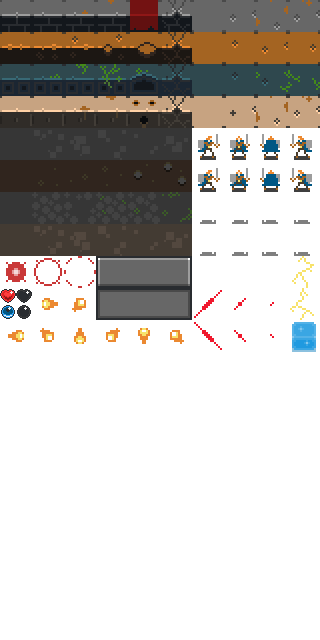
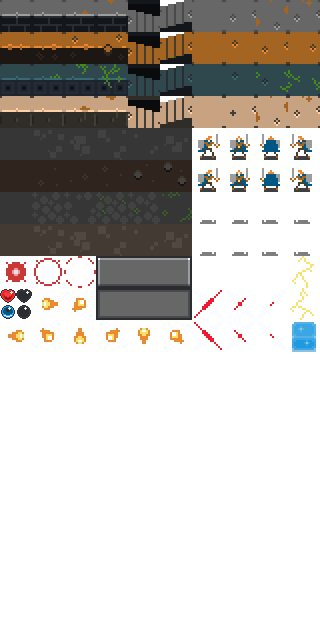
Stairs down

Changed region(s): [[0.375, 0.0, 0.5938, 0.2188]]

diff --git a/game.js b/game.js
@@ -2,10 +2,7 @@ Game = {};
 
 Game.init = function(){
     $('.gameover').hide();
-    Game.map = new Map(64, 64);
-    Game.player = Game.map.random(function(x,y){ return Game.map.empty(x,y); });
-    Game.lastPlayerDirection = 'S';
-    Game.map.updateVisibility(Game.player[0], Game.player[1]);
+    Game.initMap();
     Game.display = new Display(Game.map);
     Game.scheduler = new ROT.Scheduler.Simple();
     Game.engine = new ROT.Engine(Game.scheduler);
@@ -59,7 +56,7 @@ Game.clickMap = function(event) {
     if(Game.targeting) { Game.targeting(click); }
     else if(Game.map.navigable(click[0], click[1]) && Game.map.get(click[0], click[1], 'visibility')) {
         var pathfinder = new ROT.Path.Dijkstra(click[0], click[1], function(x,y) {
-            return Game.map.empty(x, y) && Game.map.get(x, y, 'visibility');
+            return Game.map.navigable(x, y) && Game.map.get(x, y, 'visibility');
         });
         Game.path = [];
         pathfinder.compute(Game.player[0], Game.player[1], function(x, y){
@@ -124,7 +121,7 @@ Game.doAttack = function(new_x, new_y) {
     var tgtx = new_x*2 - Game.player[0];
     var tgty = new_y*2 - Game.player[1];
     var mob = Game.map.get(tgtx, tgty, 'mobs');
-    if(Game.map.empty(new_x, new_y) && mob && mob.can('kill')){
+    if(Game.map.navigable(new_x, new_y) && mob && mob.can('kill')){
         Game.killMob(tgtx, tgty);
         if(Game.mana < Game.maxMana) Game.mana++;
     }
@@ -158,6 +155,18 @@ Game.doShove = function(new_x, new_y) {
     mob.shove(tgtx, tgty);
 };
 
+Game.canEnter = function(new_x, new_y) {
+    var mob = Game.map.get(new_x, new_y, 'mobs');
+    return mob && mob.can('enter');
+};
+
+Game.doEnter = function(new_x, new_y) {
+    var mob = Game.map.get(new_x, new_y, 'mobs');
+    Game.player[0] = new_x;
+    Game.player[1] = new_y;
+    mob.enter(new_x, new_y);
+};
+
 Game.doMove = function(new_x, new_y) {
     Game.doAttack(new_x, new_y);
 
@@ -170,7 +179,12 @@ Game.doMove = function(new_x, new_y) {
     Game.lastPlayerDirection = moved_dirs[0];
 
     if(Game.isBump(new_x, new_y)){
-        if(Game.canShove(new_x, new_y)) {
+        if(Game.canEnter(new_x, new_y)) {
+            Game.doEnter(new_x, new_y);
+            Game.map.updateVisibility(Game.player[0], Game.player[1]);
+            Game.display.scroll(moved_dirs[0]);
+            if(moved_dirs[1]) Game.display.scroll(moved_dirs[1]);
+        } else if(Game.canShove(new_x, new_y)) {
             Game.doShove(new_x, new_y);
         }
     } else {
@@ -294,6 +308,24 @@ Game.cast = function(event) {
 Game.enemyTurn = function() {
     Game.prepareNextTurn();
     Game.engine.unlock();
+    Game.display.draw();
+};
+
+Game.initMap = function() {
+    Game.map = new Map(64, 64);
+    Game.player = Game.map.random(function(x,y){ return Game.map.empty(x,y); });
+    var stairs = new StairsUp(Game.player[0], Game.player[1]);
+    Game.map.addMob(Game.player, stairs);
+    Game.lastPlayerDirection = 'S';
+    Game.map.updateVisibility(Game.player[0], Game.player[1]);
+};
+
+Game.nextLevel = function() {
+    Game.initMap();
+    Game.display.setBiome(Game.display.currentBiome + 1);
+    Status.log('Welcome to level ' + (Game.display.currentBiome+1));
+    Game.display.map = Game.map;
+    Game.display.scroll();
     Game.display.draw();
 };
 

diff --git a/enemy.js b/enemy.js
@@ -17,8 +17,8 @@ Enemy.prototype.animate = function(tick) {
 };
 
 Enemy.prototype.can = function(action){
-    // actions are 'shove', 'kill'
-    return true;
+    // actions are 'shove', 'kill', 'enter'
+    return action != 'enter';
 };
 
 Enemy.prototype.shove = function(x, y){
@@ -65,9 +65,44 @@ Ice.prototype.mobSprite = function() {
 Ice.prototype.act = function() {};
 Ice.prototype.awaken = function() {};
 Ice.prototype.animate = function(tick) {};
-Ice.prototype.shove = function(x, y){
+Ice.prototype.can = function(action){ return false; };
+
+//////////////////////////////////////////////////
+
+StairsDown = function(x, y) {
     this.x = x; this.y = y;
+    this.active = true;
 };
-Ice.prototype.can = function(action){
-    return false;
+
+StairsDown.prototype.mobSprite = function() {
+    return 'stairsD';
 };
+
+StairsDown.prototype.act = function() {};
+StairsDown.prototype.awaken = function() {};
+StairsDown.prototype.animate = function(tick) {};
+StairsDown.prototype.can = function(action){
+    return action == 'enter';
+};
+StairsDown.prototype.enter = function(){
+    Game.nextLevel();
+};
+
+//////////////////////////////////////////////////
+
+StairsUp = function(x, y) {
+    this.x = x; this.y = y;
+    this.active = true;
+};
+
+StairsUp.prototype.mobSprite = function() {
+    return 'stairsU';
+};
+
+StairsUp.prototype.act = function() {};
+StairsUp.prototype.awaken = function() {};
+StairsUp.prototype.animate = function(tick) {};
+StairsUp.prototype.can = function(action){
+    return action == 'enter';
+};
+StairsUp.prototype.enter = function(){}

diff --git a/map.js b/map.js
@@ -38,9 +38,20 @@ Map = function(w, h){
     for(var n=0; n<64; n++){
         var point = this.random(function(x, y){ return that.empty(x, y); });
         var mob = new Enemy('skeleton', point[0], point[1]);
-        this.set(point[0], point[1], mob, 'mobs');
-        this.mobs.push(mob);
+        this.addMob(point, mob);
     }
+
+    if(!Game.display || Game.display.currentBiome < 3){
+        var stairsDown = this.random(function(x,y){ return that.empty(x,y); });
+        var stairs = new StairsDown(stairsDown[0], stairsDown[1]);
+        this.addMob(stairsDown, stairs);
+    }
+};
+
+Map.prototype.addMob = function(pt, mob){
+    this.set(pt[0], pt[1], mob, 'mobs');
+    this.mobs.push(mob);
+
 };
 
 Map.prototype.clear = function(layer){
@@ -76,7 +87,8 @@ Map.prototype.empty = function(x, y){
 
 Map.prototype.navigable = function(x, y){
     var tile = this.get(x, y);
-    return tile && tile.match('^floor');
+    var mob = this.get(x, y, 'mobs');
+    return tile && tile.match('^floor') || (!mob || mob.can('enter'));
 };
 
 Map.prototype.adjacent = function(a, b){

diff --git a/display.js b/display.js
@@ -3,7 +3,7 @@ Display = function(map) {
     Display.opts.tileSet.src = 'tiny_dungeon.png';
 
     this.status = new Status();
-
+    this.currentBiome = 0;
     this.effects = {};
     this.spell = null;
     this.dirty = {};
@@ -73,6 +73,8 @@ Display.opts = { width: 0,
                      'front2': [32, 0],
                      'front3': [64, 0],
                      'front4': [96, 0],
+                     'stairsD': [128, 0],
+                     'stairsU': [160, 0],
 
                      'playerE0': [192, 128],
                      'playerE1': [192, 160],
@@ -209,7 +211,9 @@ Display.prototype.setBiome = function(biome, type) {
     if(type == null){
         this.setBiome(biome*32, 'front');
         this.setBiome(biome*32, 'wall');
+        this.setBiome(biome*32, 'stairs');
         this.setBiome((biome+4)*32, 'floor');
+        this.currentBiome = biome;
         return;
     }
     var tmap = Display.opts.tileMap;
